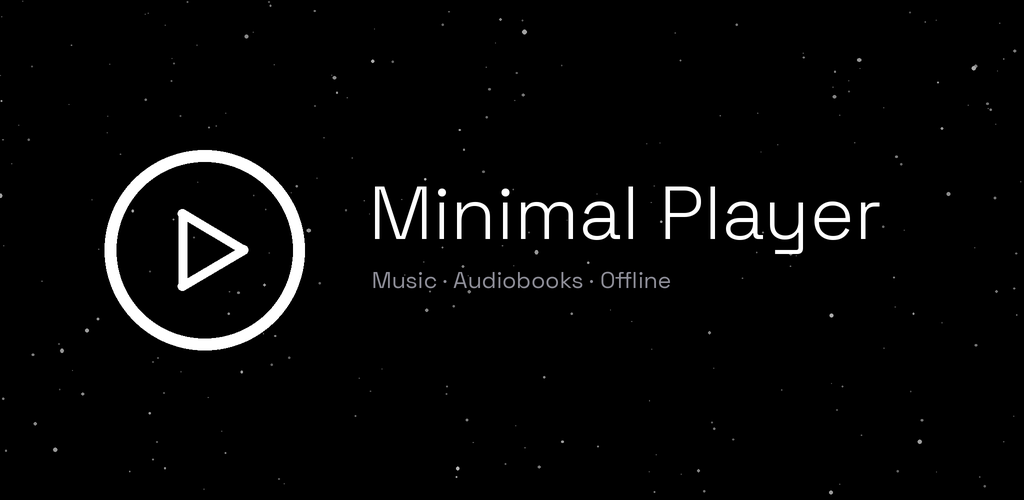
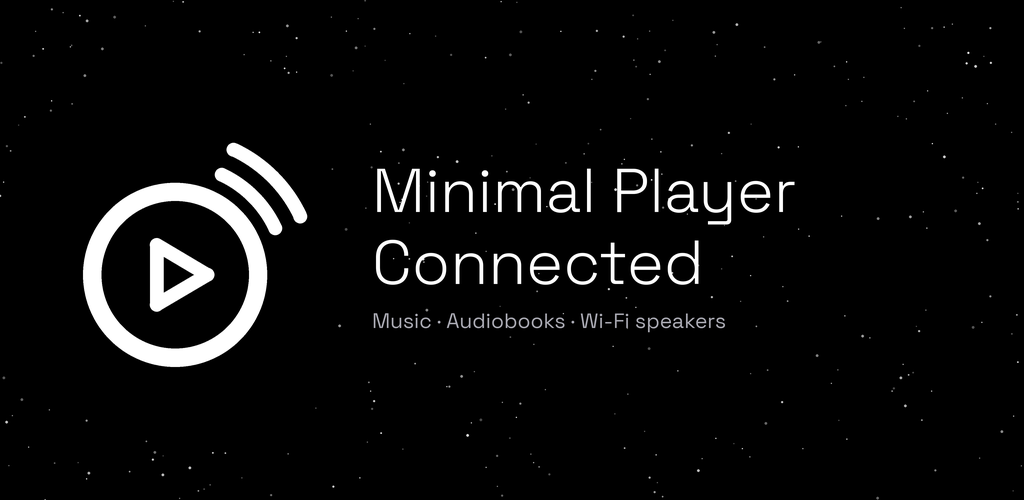
Store-Paket und Datenschutz für Streaming, neues Symbol, Play während des Ladens
Claude-Session: https://claude.ai/code/session_01GaNGpREAXYM8BXrGqNGSm6

Changed region(s): [[0.3438, 0.33, 0.875, 0.6], [0.0625, 0.27, 0.3125, 0.75], [0.3438, 0.63, 0.7188, 0.66]]

diff --git a/store/datenschutz.html b/store/datenschutz.html
@@ -3,7 +3,7 @@
 <head>
 <meta charset="utf-8">
 <meta name="viewport" content="width=device-width, initial-scale=1">
-<title>Minimal Player – Datenschutz / Privacy</title>
+<title>Minimal Player Connected – Datenschutz / Privacy</title>
 <style>
   body{margin:0;background:#000;color:#fff;font:17px/1.6 system-ui,-apple-system,"Segoe UI",sans-serif}
   main{max-width:720px;margin:0 auto;padding:56px 28px 80px}
@@ -17,11 +17,11 @@
 </style>
 </head>
 <body><main>
-<h1>Minimal Player</h1>
+<h1>Minimal Player Connected</h1>
 <p class="dim">Datenschutzerklärung · Stand: November 2026 · <a href="#en">English below</a></p>
 
 <h2>Kurz gesagt</h2>
-<p>Minimal Player erhebt keine personenbezogenen Daten, hat keinen Internetzugriff und gibt nichts an Dritte weiter. Alles bleibt auf deinem Gerät.</p>
+<p>Minimal Player Connected erhebt keine personenbezogenen Daten, verbindet sich mit keinem Server im Internet und gibt nichts an Dritte weiter. Nur wenn du selbst einen Lautsprecher in deinem WLAN auswählst, holt dieser den gerade gespielten Titel direkt vom Gerät ab.</p>
 
 <h2>Was lokal gespeichert wird</h2>
 <ul>
@@ -30,17 +30,24 @@
 <li>gemerkte Stellen in Hörbüchern</li>
 <li>deine Einstellungen</li>
 </ul>
-<p>Diese Daten verlassen das Gerät nicht. Die Android-Gerätesicherung ist für die App abgeschaltet. Deinstallieren oder „Speicher löschen“ entfernt alles.</p>
+<p>Diese Daten werden nicht hochgeladen oder weitergegeben. Die Android-Gerätesicherung ist für die App abgeschaltet. Deinstallieren oder „Speicher löschen“ entfernt alles.</p>
 
-<h2>Keine Übertragung</h2>
-<p>Die App besitzt keine Internet-Berechtigung. Es gibt keine Konten, keine Werbung, keine Analyse- oder Absturzdienste.</p>
+<h2>Netzwerk: nur dein Heimnetz</h2>
+<p>Die App verbindet sich ausschließlich mit Geräten im eigenen WLAN, nie mit Servern im Internet. Es gibt keine Konten, keine Werbung, keine Analyse- oder Absturzdienste.</p>
+<ul>
+<li><b>Suche:</b> Beim Öffnen von „Wiedergabe auf“ sendet die App eine UPnP-Suchanfrage (SSDP) ins lokale Netz und liest Name und Modell der antwortenden Lautsprecher. Nichts davon wird gespeichert.</li>
+<li><b>Abspielen:</b> Nach deiner Auswahl stellt ein kleiner Server im Gerät den gerade gespielten Titel (und ggf. das Cover) unter einer zufälligen, nicht erratbaren Adresse bereit; der Lautsprecher holt ihn dort ab. Der Server läuft nur, solange ein Lautsprecher verbunden ist.</li>
+<li>Was der Lautsprecher bzw. dessen Hersteller mit abgespielten Titeln macht, liegt außerhalb dieser App.</li>
+</ul>
 
 <h2>Berechtigungen</h2>
 <table>
 <tr><th>Berechtigung</th><th>Zweck</th></tr>
 <tr><td>Ordnerzugriff (von dir gewählt)</td><td>Lesen nur der Ordner, die du selbst auswählst</td></tr>
+<tr><td>Netzwerk (INTERNET)</td><td>nur Verbindungen zu Lautsprechern im eigenen WLAN; Android verlangt diese Berechtigung auch dafür</td></tr>
+<tr><td>WLAN-Multicast</td><td>Lautsprecher im WLAN finden, nur während der Suche</td></tr>
 <tr><td>Dienst im Vordergrund (Mediawiedergabe)</td><td>Wiedergabe im Hintergrund, Steuerung auf dem Sperrbildschirm und per Kopfhörer</td></tr>
-<tr><td>Wake Lock</td><td>keine Unterbrechung bei ausgeschaltetem Bildschirm</td></tr>
+<tr><td>Wake Lock</td><td>keine Unterbrechung bei ausgeschaltetem Bildschirm, auch beim Streamen</td></tr>
 <tr><td>Audio-Einstellungen</td><td>Equalizer und Lautstärke über 100 %, nur für die Wiedergabe dieser App</td></tr>
 <tr><td>Vibration</td><td>Bestätigung, wenn Schütteln den Schlaf-Timer neu startet</td></tr>
 <tr><td>Bewegungssensor</td><td>nur bei laufendem Schlaf-Timer, um Schütteln zu erkennen; nichts wird gespeichert</td></tr>
@@ -51,11 +58,11 @@
 
 <hr id="en">
 
-<h1>Minimal Player</h1>
+<h1>Minimal Player Connected</h1>
 <p class="dim">Privacy policy · November 2026</p>
 
 <h2>In short</h2>
-<p>Minimal Player collects no personal data, has no internet access and shares nothing with third parties. Everything stays on your device.</p>
+<p>Minimal Player Connected collects no personal data, connects to no server on the internet and shares nothing with third parties. Only when you pick a speaker in your Wi-Fi does that speaker fetch the current track directly from your device.</p>
 
 <h2>Stored locally</h2>
 <ul>
@@ -64,17 +71,24 @@
 <li>remembered audiobook positions</li>
 <li>your settings</li>
 </ul>
-<p>This data never leaves the device. Android device backup is turned off for this app. Uninstalling or clearing storage removes everything.</p>
+<p>This data is never uploaded or shared. Android device backup is turned off for this app. Uninstalling or clearing storage removes everything.</p>
 
-<h2>No transmission</h2>
-<p>The app has no internet permission. No accounts, no ads, no analytics or crash reporting.</p>
+<h2>Network: your home network only</h2>
+<p>The app only connects to devices in your own Wi-Fi, never to servers on the internet. No accounts, no ads, no analytics or crash reporting.</p>
+<ul>
+<li><b>Search:</b> when you open “Play on”, the app sends a UPnP search (SSDP) to the local network and reads name and model of the speakers that answer. Nothing is stored.</li>
+<li><b>Playback:</b> after you pick a speaker, a small server on the device offers the current track (and its cover) under a random, unguessable address; the speaker fetches it from there. The server only runs while a speaker is connected.</li>
+<li>What the speaker or its manufacturer does with played tracks is outside this app.</li>
+</ul>
 
 <h2>Permissions</h2>
 <table>
 <tr><th>Permission</th><th>Purpose</th></tr>
 <tr><td>Folder access (chosen by you)</td><td>read only the folders you select</td></tr>
+<tr><td>Network (INTERNET)</td><td>only connections to speakers in your own Wi-Fi; Android requires this permission for that too</td></tr>
+<tr><td>Wi-Fi multicast</td><td>find speakers in your Wi-Fi, only while searching</td></tr>
 <tr><td>Foreground service (media playback)</td><td>background playback, lock screen and headphone controls</td></tr>
-<tr><td>Wake lock</td><td>no interruption while the screen is off</td></tr>
+<tr><td>Wake lock</td><td>no interruption while the screen is off, also while streaming</td></tr>
 <tr><td>Audio settings</td><td>equalizer and volume above 100 %, only for this app's playback</td></tr>
 <tr><td>Vibration</td><td>confirms when shaking restarts the sleep timer</td></tr>
 <tr><td>Motion sensor</td><td>only while the sleep timer runs, to detect a shake; nothing is stored</td></tr>

diff --git a/app/src/main/java/de/philipdecker/playerconnected/RemotePlayer.kt b/app/src/main/java/de/philipdecker/playerconnected/RemotePlayer.kt
@@ -176,7 +176,8 @@ class RemotePlayer(
         quiet()
         if (entries.isEmpty()) return done()
         if (loaded == null || state == Player.STATE_ENDED) {
-            if (state != Player.STATE_ENDED) load(index, posMs, playWhenReady)
+            // Lädt gerade: das Ergebnis von load() richtet sich nach dem dann gültigen pwr
+            if (state != Player.STATE_ENDED && state != Player.STATE_BUFFERING) load(index, posMs, playWhenReady)
             return done()
         }
         val my = gen
@@ -357,6 +358,17 @@ class RemotePlayer(
                     loadedAt = SystemClock.elapsedRealtime()
                     pendingSeek = seekLater
                     if (!play) state = Player.STATE_READY
+                    // Während des Ladens wurde Play/Pause gedrückt
+                    if (pwr != play) {
+                        val seek = pendingSeek
+                        if (pwr) pendingSeek = null
+                        val want = pwr
+                        io.execute {
+                            try {
+                                if (want) { avt("Play", "Speed" to "1"); if (seek != null) seekRemote(seek) } else avt("Pause")
+                            } catch (_: Exception) { }
+                        }
+                    }
                     quiet()
                     invalidateState()
                 }

diff --git a/store/store-texte.md b/store/store-texte.md
@@ -1,15 +1,24 @@
-# Play-Store-Texte – Minimal Player
+# Play-Store-Texte – Minimal Player Connected
 
 ## Deutsch
 
-**Titel** (max. 30): Minimal Player
+**Titel** (max. 30): Minimal Player Connected
 
 **Kurzbeschreibung** (max. 80):
-Musik und Hörbücher aus deinen Ordnern. Offline, schwarz, ohne Tracking.
+Deine Musik und Hörbücher – auf dem Handy oder auf WLAN-Lautsprechern.
 
 **Beschreibung:**
 
-Minimal Player spielt deine eigene Musik- und Hörbuchsammlung – genau so, wie du sie in Ordnern abgelegt hast. Kein Konto, keine Cloud, keine Werbung, kein Internetzugriff.
+Minimal Player Connected spielt deine eigene Musik- und Hörbuchsammlung – genau so, wie du sie in Ordnern abgelegt hast. Auf dem Handy oder auf den Lautsprechern in deinem WLAN. Kein Konto, keine Cloud, keine Werbung.
+
+AUF LAUTSPRECHERN IM WLAN
+• Symbol im Player antippen, Lautsprecher wählen, fertig – die Musik läuft dort an derselben Stelle weiter
+• Multiroom-Lautsprecher und alle UPnP/DLNA-Geräte (viele AV-Receiver, Smart-TVs, Netzwerk-Lautsprecher)
+• Gruppierte Räume erscheinen als ein Eintrag
+• Lautstärke per Schieberegler oder mit den Lautstärketasten des Handys
+• Pause, Weiter und Lautstärke am Lautsprecher selbst werden übernommen
+• Zurück aufs Handy mit einem Tipp – Warteschlange und Stelle wandern mit
+• Die Dateien gehen direkt vom Handy zum Lautsprecher, ohne Umweg über das Internet
 
 MUSIK
 • Echte Ordneransicht wie am Computer, z. B. Interpret / Album – unabhängig von fehlerhaften Tags
@@ -41,24 +50,33 @@ RUHIGES DESIGN
 
 KLANG
 • Lautstärke von 50 bis 200 % – leise Hörbücher werden verständlich
-• Equalizer getrennt für Musik und Hörbücher, für Hörbücher ab Werk mit etwas weniger Bass
+• Equalizer getrennt für Musik und Hörbücher, für Hörbücher ab Werk mit etwas weniger Bass (auf dem Handy)
 • Oberfläche auf Deutsch und Englisch
 
 DEINE DATEN BLEIBEN BEI DIR
-Minimal Player hat keine Internet-Berechtigung. Du wählst die Ordner selbst über den Android-Speicherzugriff; die App sieht nur diese Ordner. Es werden keine Daten erhoben oder geteilt.
+Minimal Player Connected spricht nur mit Geräten in deinem eigenen WLAN, nie mit Servern im Internet. Du wählst die Ordner selbst über den Android-Speicherzugriff; die App sieht nur diese Ordner. Es werden keine Daten erhoben oder geteilt.
 
-Formate: alles, was Android abspielen kann, z. B. MP3, M4A/M4B, AAC, FLAC, OGG, Opus, WAV.
+Formate: alles, was Android abspielen kann, z. B. MP3, M4A/M4B, AAC, FLAC, OGG, Opus, WAV. Auf Lautsprechern: was der Lautsprecher kann (meist MP3, AAC/M4A, FLAC, WAV).
 
 ## English
 
-**Title** (max 30): Minimal Player
+**Title** (max 30): Minimal Player Connected
 
 **Short description** (max 80):
-Music and audiobooks from your own folders. Offline, black, no tracking.
+Your music and audiobooks – on your phone or on Wi-Fi speakers at home.
 
 **Full description:**
 
-Minimal Player plays your own music and audiobook collection – exactly the way you organised it in folders. No account, no cloud, no ads, no internet access.
+Minimal Player Connected plays your own music and audiobook collection – exactly the way you organised it in folders. On your phone or on the speakers in your Wi-Fi. No account, no cloud, no ads.
+
+ON SPEAKERS IN YOUR WI-FI
+• Tap the symbol in the player, pick a speaker, done – playback continues there at the same spot
+• Multi-room speakers and all UPnP/DLNA devices (many AV receivers, smart TVs, network speakers)
+• Grouped rooms show up as one entry
+• Volume with the slider or your phone's volume keys
+• Pause, skip and volume on the speaker itself are picked up
+• Back to the phone with one tap – queue and position come along
+• Files go straight from your phone to the speaker, never through the internet
 
 MUSIC
 • Real folder view like on your computer, e.g. Artist / Album – independent of broken tags
@@ -90,26 +108,27 @@ CALM DESIGN
 
 SOUND
 • Volume from 50 to 200 % – quiet audiobooks become clear
-• Separate equalizer for music and audiobooks, audiobooks come with slightly less bass
+• Separate equalizer for music and audiobooks, audiobooks come with slightly less bass (on the phone)
 • English and German interface
 
 YOUR DATA STAYS WITH YOU
-Minimal Player has no internet permission. You pick the folders yourself through Android's storage access; the app only sees those folders. No data is collected or shared.
+Minimal Player Connected only talks to devices in your own Wi-Fi, never to servers on the internet. You pick the folders yourself through Android's storage access; the app only sees those folders. No data is collected or shared.
 
-Formats: everything Android can play, e.g. MP3, M4A/M4B, AAC, FLAC, OGG, Opus, WAV.
+Formats: everything Android can play, e.g. MP3, M4A/M4B, AAC, FLAC, OGG, Opus, WAV. On speakers: whatever the speaker supports (usually MP3, AAC/M4A, FLAC, WAV).
 
 ## Angaben für die Play Console
 
 - **Kategorie:** Musik & Audio
-- **Preis:** 0,99 € (Vorschlag; bei dem Funktionsumfang wären auch 1,49–1,99 € vertretbar)
+- **Preis:** 1,99 € (Vorschlag: Minimal Player plus Streaming; mit 0,99 € als Minimal Player sauber abgestuft)
 - **Inhaltsbewertung (IARC):** Fragebogen-Kategorie „Alle anderen App-Typen“. Keine Gewalt, keine sexuellen Inhalte, keine Glücksspiele, keine Nutzerinteraktion, kein Teilen von Standort, keine Käufe in der App. Ergebnis: USK 0 / PEGI 3 / „Everyone“.
 - **Zielgruppe:** 13+ (nicht für Kinder konzipiert – vermeidet die Familienrichtlinien-Pflichten; Inhalte sind trotzdem unbedenklich)
 - **Werbung:** Nein
 - **App-Zugriff:** Alle Funktionen ohne Anmeldung verfügbar
 - **Nachrichten-App / Gesundheits-App / Behörden:** Nein
-- **Datenschutzerklärung-URL:** z. B. https://philipdecker.de/minimal-player/datenschutz (Datei: store/datenschutz.html)
+- **Datenschutzerklärung-URL:** z. B. https://philipdecker.de/minimal-player-connected/datenschutz (Datei: store/datenschutz.html)
 - **Vordergrund-Dienst (FOREGROUND_SERVICE_MEDIA_PLAYBACK):** In der Console unter „App-Inhalte → Berechtigungen für Dienste im Vordergrund“ angeben: *Mediawiedergabe – spielt vom Nutzer gestartete Audiodateien weiter, wenn die App im Hintergrund ist oder der Bildschirm aus ist.* Ggf. kurzes Video verlangt: Titel starten, Bildschirm sperren, Wiedergabe läuft weiter, Steuerung auf dem Sperrbildschirm.
 
+- **Hinweis Markennamen:** Herstellernamen von Lautsprechern stehen bewusst nicht in den Texten (Play-Richtlinie zu fremden Marken). Wer „Sonos“ erwähnen will: nur sachlich als Kompatibilität („funktioniert mit …“), nie im Titel.
 - **Android Auto:** In der Play Console unter *Erweiterte Einstellungen → Formfaktoren* „Android Auto“ hinzufügen. Google prüft Auto-Apps gesondert (Medien-Qualitätsrichtlinien); Screenshots aus der Desktop-Head-Unit (DHU) werden verlangt.
 
 ## Screenshots

diff --git a/DATENSCHUTZ.md b/DATENSCHUTZ.md
@@ -1,6 +1,6 @@
-# Datenschutz – Minimal Player
+# Datenschutz – Minimal Player Connected
 
-**Kurz:** Minimal Player erhebt keine personenbezogenen Daten, hat keinen Internetzugriff und gibt nichts an Dritte weiter. Alles bleibt auf deinem Handy.
+**Kurz:** Minimal Player Connected erhebt keine personenbezogenen Daten, spricht mit keinem Server im Internet und gibt nichts an Dritte weiter. Nur wenn du selbst einen Lautsprecher in deinem WLAN auswählst, holt dieser Lautsprecher den gerade gespielten Titel direkt vom Handy ab.
 
 ## Was auf dem Handy gespeichert wird
 
@@ -11,25 +11,36 @@ Lokal im App-Speicher, nur für die Funktion der App:
 - gemerkte Stellen in Hörbüchern (Datei, Minute/Sekunde)
 - deine Einstellungen (Tempo, Schlaf-Timer, Schrift, Sternenhimmel …)
 
-Nichts davon verlässt das Gerät. Die Android-Gerätesicherung ist für diese App abgeschaltet. Deinstallieren oder „Speicher löschen“ entfernt alles.
+Nichts davon wird hochgeladen oder an Dritte gegeben. Die Android-Gerätesicherung ist für diese App abgeschaltet. Deinstallieren oder „Speicher löschen“ entfernt alles.
 
-## Internet
+## Netzwerk – nur dein Heimnetz
 
-Keines. Die Berechtigung `INTERNET` fehlt – auch eingebundene Bibliotheken bekommen sie nicht. Kein Analyse-SDK, keine Absturzberichte, keine Werbung, kein Konto.
+Die App verbindet sich ausschließlich mit Geräten in deinem eigenen WLAN, nie mit Servern im Internet. Kein Analyse-SDK, keine Absturzberichte, keine Werbung, kein Konto, keine Update-Abfrage.
+
+- **Suche:** Öffnest du „Wiedergabe auf“, schickt die App eine UPnP-Suchanfrage (SSDP) ins lokale Netz. Lautsprecher antworten mit ihrer Adresse; die App liest deren Gerätebeschreibung (Name, Modell). Nichts davon wird gespeichert.
+- **Abspielen:** Wählst du einen Lautsprecher, startet die App einen kleinen Server im Handy. Der Lautsprecher bekommt eine zufällige, nicht erratbare Adresse für den gerade gespielten Titel (und ggf. das Cover) und holt die Datei dort ab. Es gibt kein Verzeichnis, keine Liste deiner Dateien. Der Server läuft nur, solange ein Lautsprecher verbunden ist.
+- **Steuerung:** Play, Pause, Spulen, Lautstärke gehen per UPnP direkt an den Lautsprecher.
+- Was der Lautsprecher bzw. dessen Hersteller mit den abgespielten Titeln macht (z. B. Verlauf in dessen App), liegt außerhalb dieser App.
 
 ## Berechtigungen
 
 | Berechtigung | Wofür | Nachfrage? |
 |---|---|---|
 | Ordnerzugriff (Android-Speicherzugriff, von dir gewählt) | Nur die Ordner lesen, die du selbst auswählst. Kein Zugriff auf andere Dateien. | Du wählst jeden Ordner selbst |
+| `INTERNET` | Verbindung zu Lautsprechern im eigenen WLAN (Android verlangt diese Berechtigung auch für reine Heimnetz-Verbindungen). Keine Verbindung ins Internet. | nein (automatisch) |
+| `CHANGE_WIFI_MULTICAST_STATE` | Lautsprecher im WLAN finden (Suchanfrage per Multicast), nur während der Suche | nein (automatisch) |
 | `FOREGROUND_SERVICE`, `FOREGROUND_SERVICE_MEDIA_PLAYBACK` | Wiedergabe läuft weiter, wenn die App im Hintergrund oder der Bildschirm aus ist; Steuerung auf Sperrbildschirm und per Kopfhörer | nein (automatisch) |
-| `WAKE_LOCK` | Das Handy unterbricht die Wiedergabe bei ausgeschaltetem Bildschirm nicht | nein (automatisch) |
+| `WAKE_LOCK` | Das Handy unterbricht die Wiedergabe bei ausgeschaltetem Bildschirm nicht; beim Streamen bleiben WLAN und Prozessor wach, damit der Lautsprecher die Datei weiter abholen kann | nein (automatisch) |
 | `MODIFY_AUDIO_SETTINGS` | Equalizer und Lautstärke über 100 % – wirkt nur auf die Wiedergabe dieser App | nein (automatisch) |
 | `VIBRATE` | Kurzes Vibrieren als Bestätigung, wenn Schütteln den Schlaf-Timer neu startet | nein (automatisch) |
 | Bewegungssensor (Beschleunigung) | Nur während der Schlaf-Timer läuft, um ein Schütteln zu erkennen. Werte werden nicht gespeichert. | keine Berechtigung nötig |
 
-Kein Zugriff auf Kontakte, Standort, Kamera, Mikrofon, Telefon, SMS oder Benachrichtigungen anderer Apps.
+Kein Zugriff auf Kontakte, Netzwerkstatus, Standort, Kamera, Mikrofon, Telefon, SMS oder Benachrichtigungen anderer Apps.
 
 ## Verantwortlich
 
 Philip Decker, detec, Nideggen – Kontakt über https://philipdecker.de
+
+## Hinweis für spätere Versionen
+
+Ab Ziel-API 37 (Android 17) verlangt Android für Verbindungen ins lokale Netz die Laufzeit-Berechtigung `ACCESS_LOCAL_NETWORK`. Bei Ziel-API 36 ist sie über `INTERNET` automatisch erteilt. Beim Umstieg auf 37 muss die App vor der ersten Suche danach fragen.

diff --git a/store/data-safety.md b/store/data-safety.md
@@ -3,9 +3,13 @@
 | Frage | Antwort |
 |---|---|
 | Erhebt oder teilt deine App erforderliche Nutzerdatentypen? | **Nein** |
-| Werden alle erhobenen Nutzerdaten bei der Übertragung verschlüsselt? | entfällt (keine Übertragung) |
+| Werden alle erhobenen Nutzerdaten bei der Übertragung verschlüsselt? | entfällt (es werden keine Daten erhoben) |
 | Können Nutzer die Löschung ihrer Daten beantragen? | entfällt – alle Daten liegen nur auf dem Gerät; „App-Daten löschen“ oder Deinstallieren entfernt alles |
 
 Ergebnis im Store: **„Keine Daten erhoben“** und **„Keine Daten mit Dritten geteilt“**.
 
-Begründung: Die App hat keine INTERNET-Berechtigung (im Manifest ausdrücklich entfernt, auch für Bibliotheken). Gespeichert werden lokal nur: Liste der gewählten Ordner, Datei-Index (Dateinamen/Ordnerpfade), Hörbuch-Stellen, Einstellungen. Android-Backup ist deaktiviert (`allowBackup=false`), es wandert also auch nichts in Google-Backups.
+Begründung:
+- Die App hat die Berechtigung INTERNET nur, weil Android sie für jede Socket-Verbindung verlangt – auch im eigenen WLAN. Sie verbindet sich ausschließlich mit Lautsprechern im lokalen Netz (private IP-Adressen), nie mit einem Server des Entwicklers oder Dritter. Kein SDK, keine Analyse, keine Absturzberichte.
+- „Erhoben“ heißt bei Google: Daten verlassen das Gerät in Richtung Entwickler oder Dritte. Das passiert nicht.
+- Das Abspielen auf einem Lautsprecher ist eine vom Nutzer ausgelöste Übertragung an sein eigenes Gerät (Google-Ausnahme „vom Nutzer initiierte Aktion“) und zählt nicht als Teilen.
+- Gespeichert werden lokal nur: gewählte Ordner, Datei-Index (Dateinamen/Ordnerpfade), Hörbuch-Stellen, Einstellungen. Android-Backup ist deaktiviert (`allowBackup=false`).

diff --git a/README.md b/README.md
@@ -1,13 +1,16 @@
-# Minimal Player
+# Minimal Player Connected
 
-Offline-Musik- und Hörbuchplayer im Stil von Minimal. Bezahl-App für Google Play – **privates Repo, keine Open-Source-Lizenz.**
+Minimal Player plus Streaming an Lautsprecher im Heimnetz (Sonos, UPnP/DLNA). Im Stil von Minimal. Bezahl-App für Google Play – **privates Repo, keine Open-Source-Lizenz.**
 
 - Hauptumschalter Musik / Hörbücher, je eigene Ordner (mehrere)
 - Echte Ordneransicht statt ID3-Tags, natürliche Sortierung, Sofortsuche (Room-FTS-Index)
 - Lückenlose Wiedergabe (ExoPlayer-Playlist)
 - Hörbücher: Stelle je Ordner und je Datei, Tempo 1,0–2,5× mit Tonhöhenkorrektur, Schlaf-Timer mit Ausblenden und Schütteln, Zurück-/Vorspringen
 - Sperrbildschirm, Benachrichtigung, Bluetooth-/Kopfhörer-Tasten (Media3-Session)
-- Kein Internet (Berechtigung per Manifest entfernt), keine Konten, kein Tracking
+- **Wiedergabe auf:** Symbol im Player → Handy, Sonos-Gruppe oder UPnP/DLNA-Renderer. Warteschlange, Stelle, Zufall, Wiederholen wandern mit
+  - `Connect.kt` Suche (SSDP) + Gerätebeschreibung + Sonos-Gruppen (ZoneGroupTopology), `Serve.kt` HTTP-Server mit Range, `RemotePlayer.kt` Media3-`SimpleBasePlayer` (AVTransport/RenderingControl, Abfrage jede Sekunde), `ConnectUi.kt` Auswahl
+  - Lautstärketasten steuern den Lautsprecher (DeviceInfo REMOTE)
+- Nur Heimnetz: INTERNET + CHANGE_WIFI_MULTICAST_STATE, keine Server im Internet, keine Konten, kein Tracking (Workflow prüft die Berechtigungsliste)
 
 Build: nur über GitHub Actions (`.github/workflows/build.yml`). Ergebnis als Workflow-Artefakt: signiertes AAB (Play) und APK (Test).
 Secret `KEYSTORE_B64` = Upload-Schlüssel für Play App Signing.
